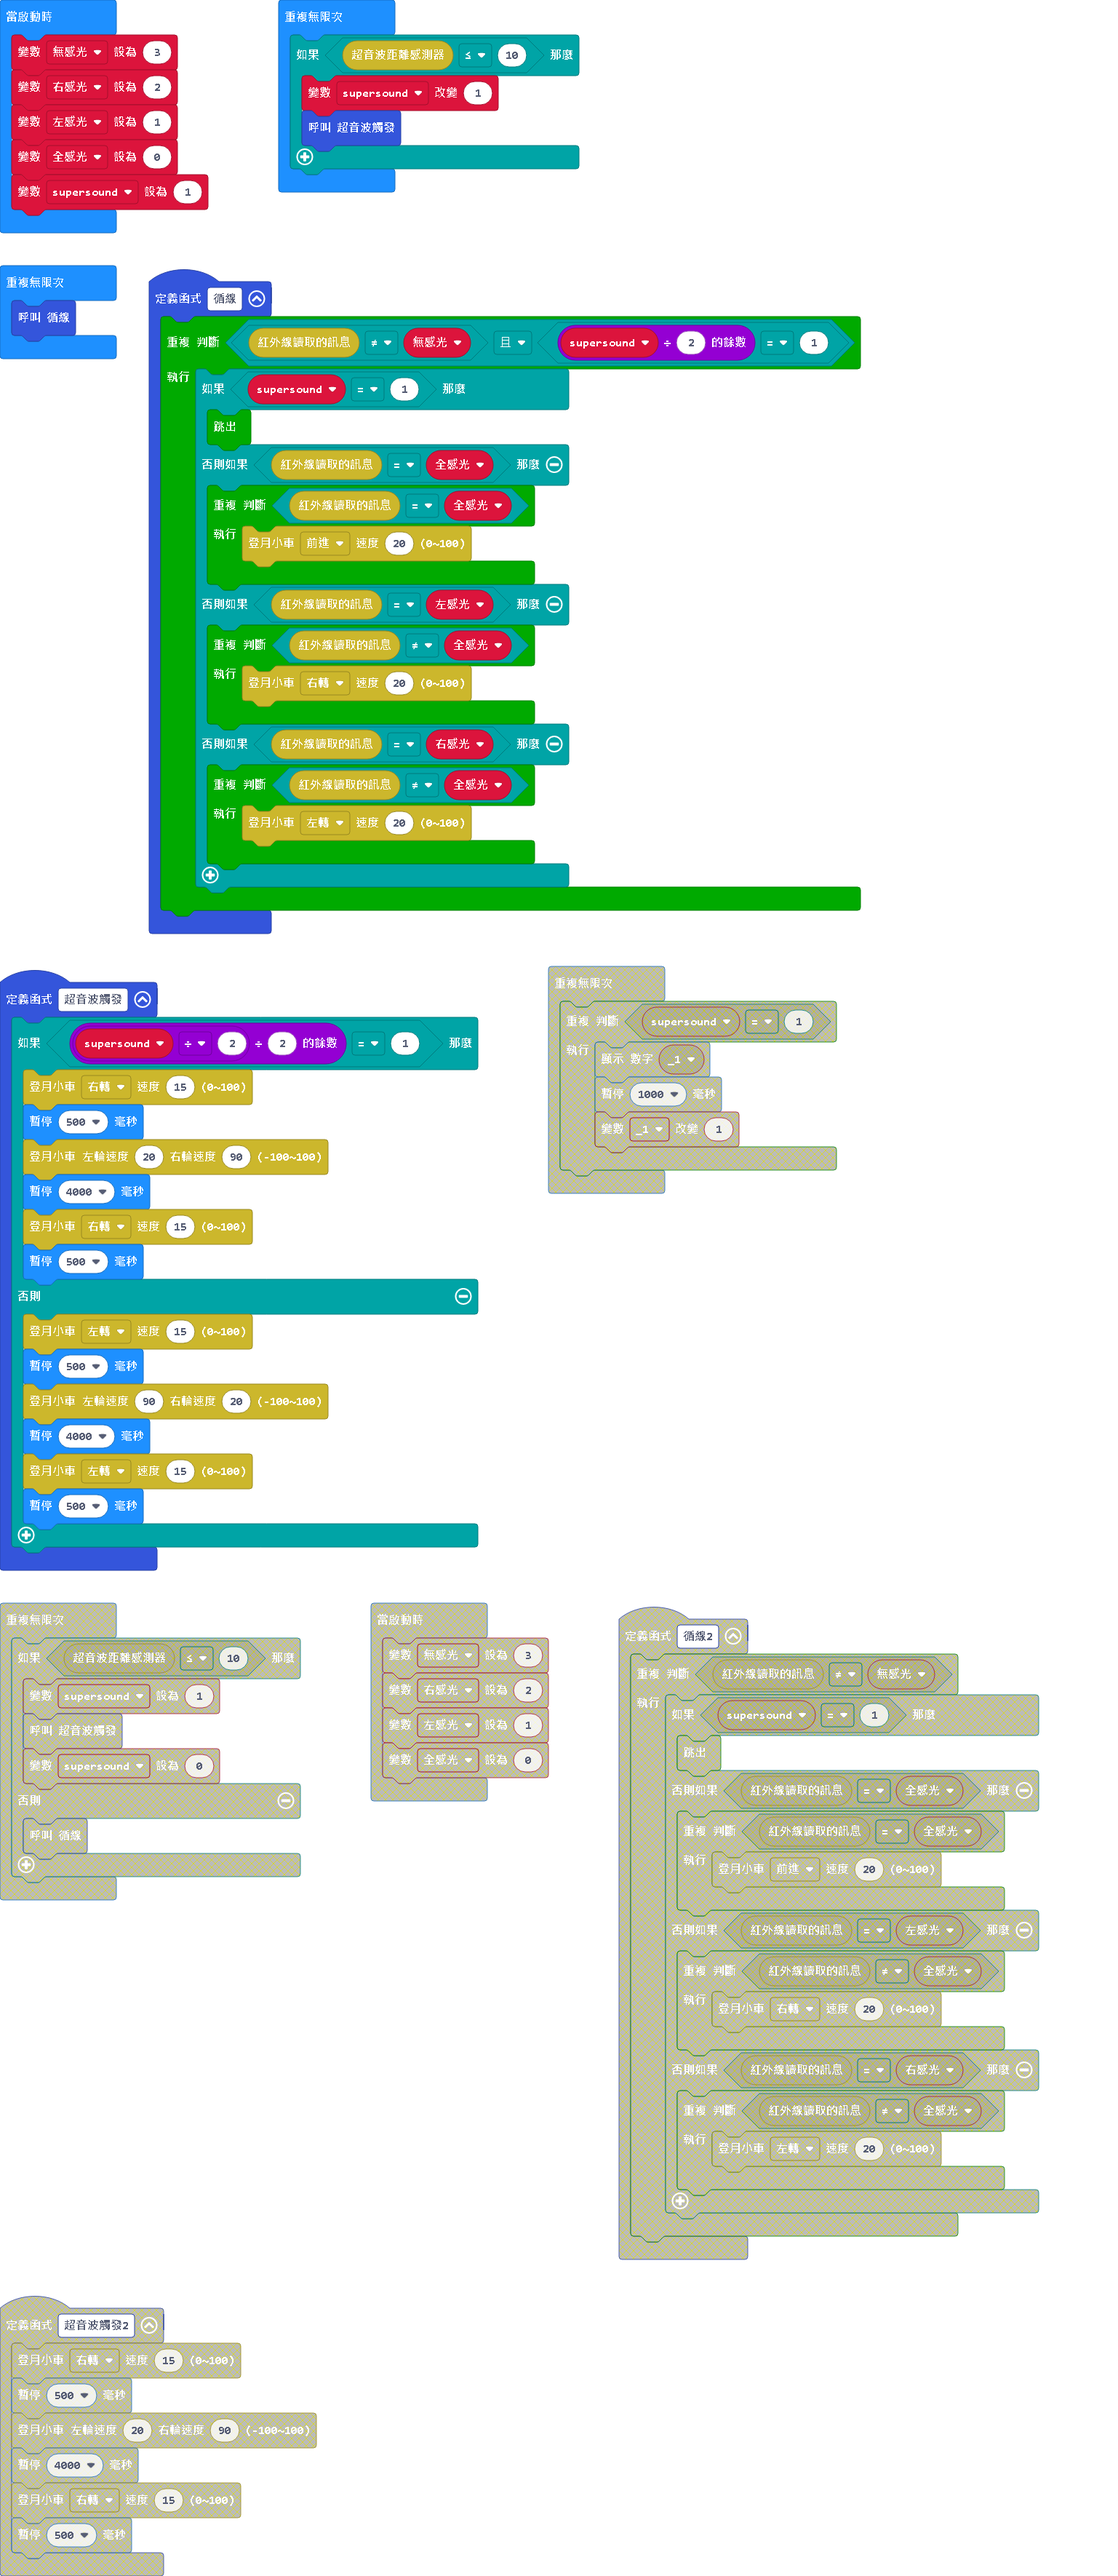
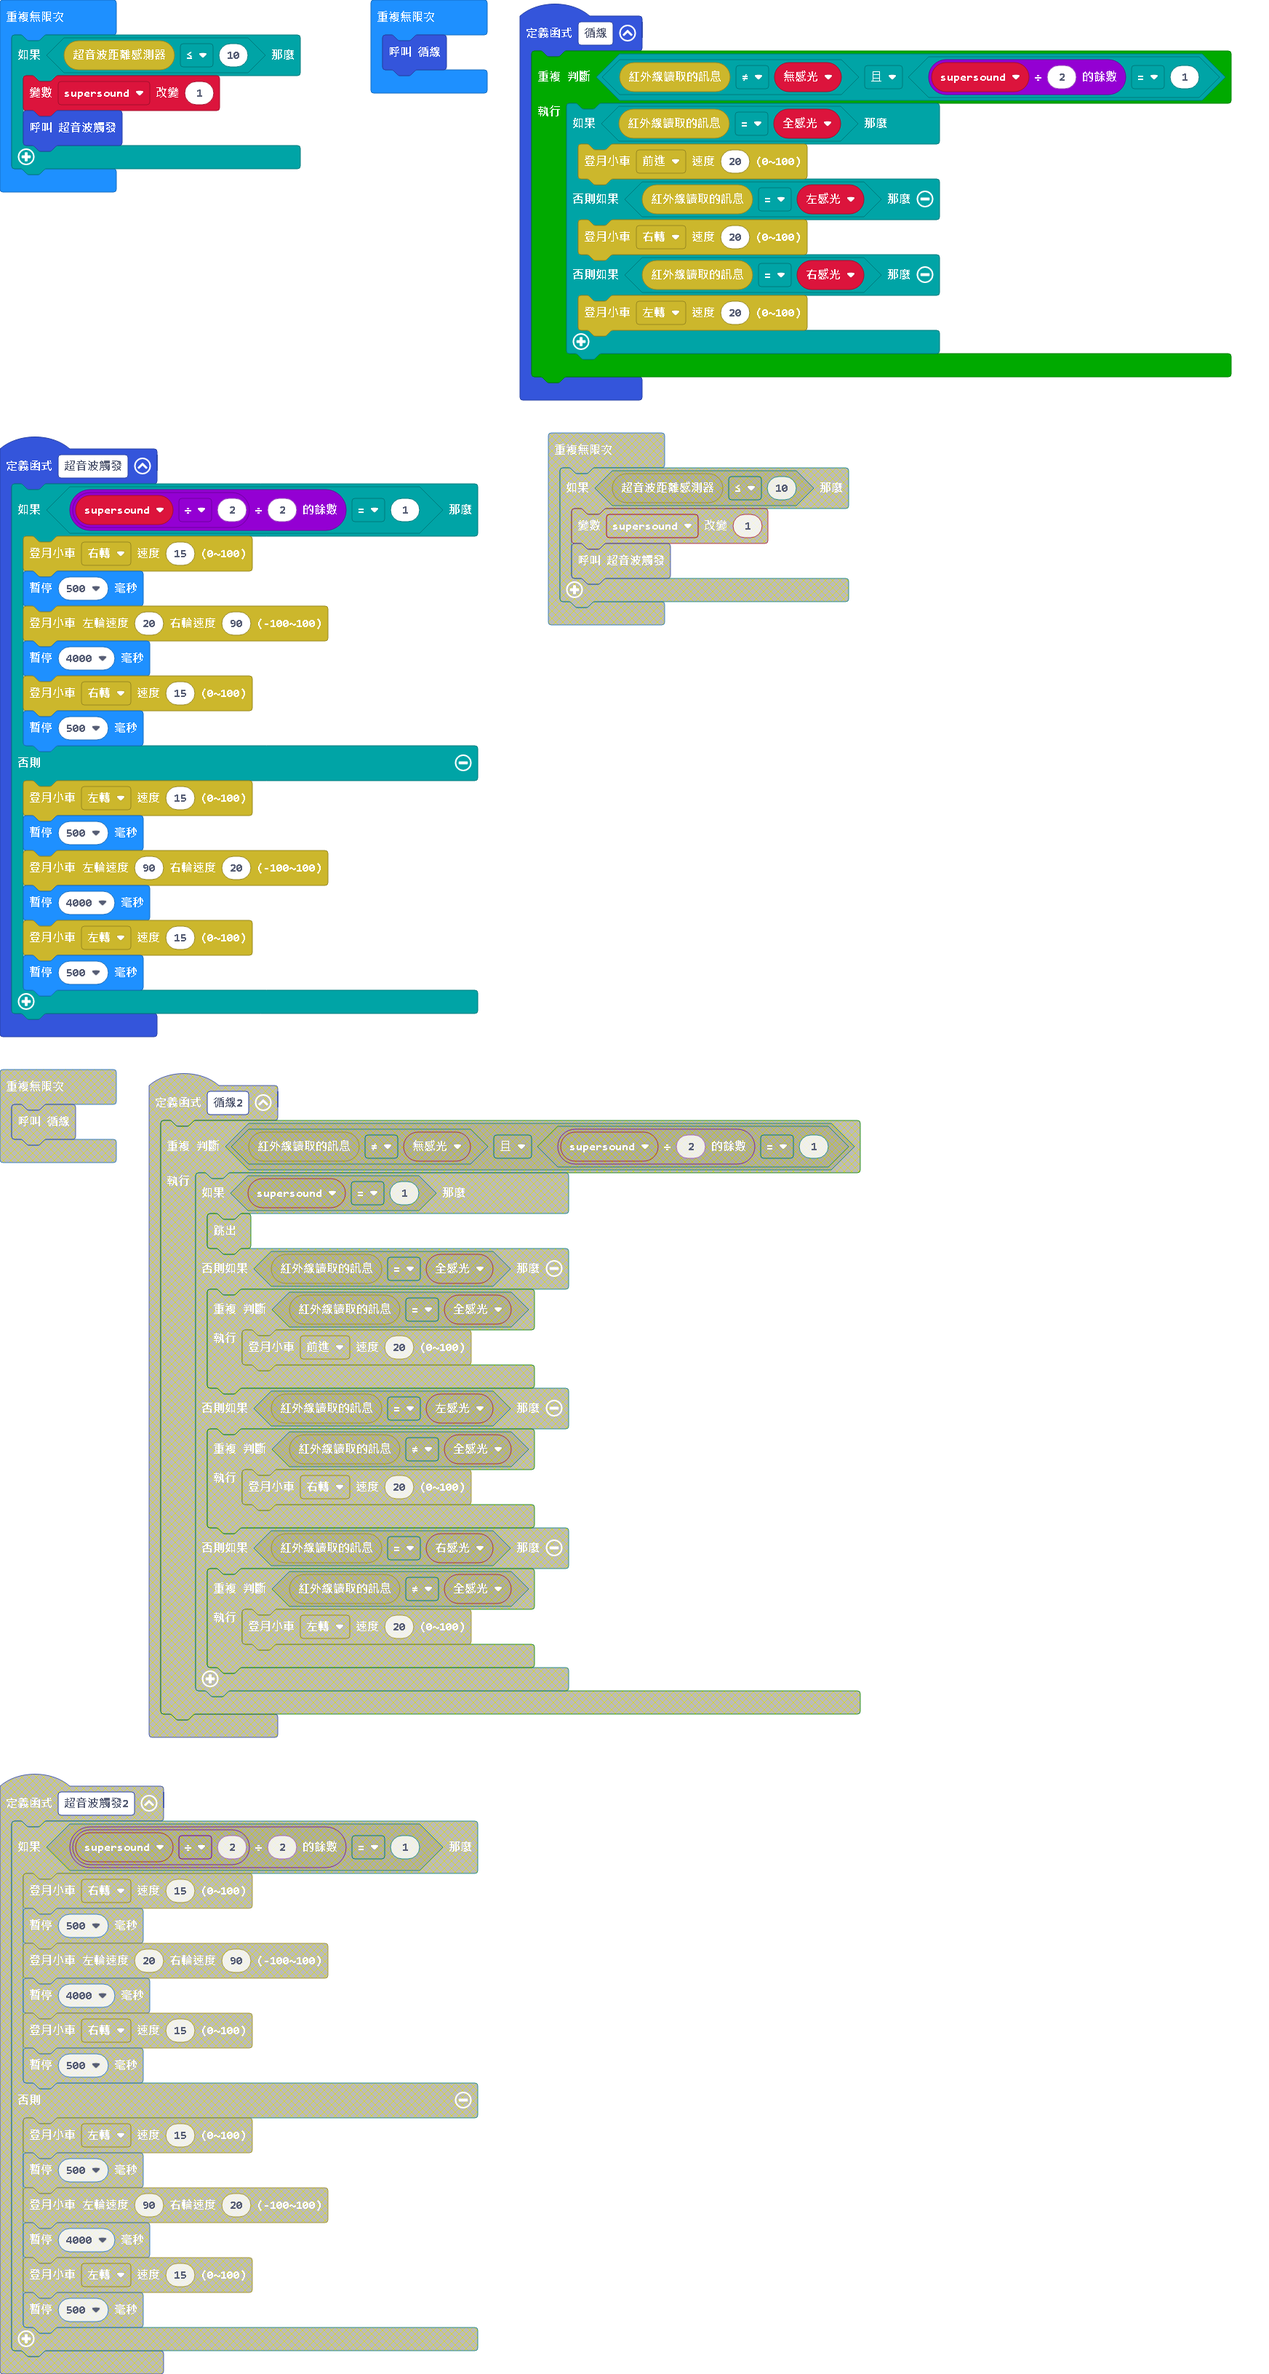
更新 main.blocks, main.ts, main.py

diff --git a/main.ts b/main.ts
@@ -1,19 +1,11 @@
 function 循線 () {
     while (mooncar.IRRead() != 無感光 && supersound % 2 == 1) {
-        if (supersound == 1) {
-            break;
-        } else if (mooncar.IRRead() == 全感光) {
-            while (mooncar.IRRead() == 全感光) {
-                mooncar.MoonCarGo(mooncar.Direction.direct1, 20)
-            }
+        if (mooncar.IRRead() == 全感光) {
+            mooncar.MoonCarGo(mooncar.Direction.direct1, 20)
         } else if (mooncar.IRRead() == 左感光) {
-            while (mooncar.IRRead() != 全感光) {
-                mooncar.MoonCarGo(mooncar.Direction.direct4, 20)
-            }
+            mooncar.MoonCarGo(mooncar.Direction.direct4, 20)
         } else if (mooncar.IRRead() == 右感光) {
-            while (mooncar.IRRead() != 全感光) {
-                mooncar.MoonCarGo(mooncar.Direction.direct3, 20)
-            }
+            mooncar.MoonCarGo(mooncar.Direction.direct3, 20)
         }
     }
 }

diff --git a/main.py b/main.py
@@ -1,16 +1,11 @@
 def 循線():
     while mooncar.ir_read() != 無感光 and supersound % 2 == 1:
-        if supersound == 1:
-            break
-        elif mooncar.ir_read() == 全感光:
-            while mooncar.ir_read() == 全感光:
-                mooncar.moon_car_go(mooncar.Direction.DIRECT1, 20)
+        if mooncar.ir_read() == 全感光:
+            mooncar.moon_car_go(mooncar.Direction.DIRECT1, 20)
         elif mooncar.ir_read() == 左感光:
-            while mooncar.ir_read() != 全感光:
-                mooncar.moon_car_go(mooncar.Direction.DIRECT4, 20)
+            mooncar.moon_car_go(mooncar.Direction.DIRECT4, 20)
         elif mooncar.ir_read() == 右感光:
-            while mooncar.ir_read() != 全感光:
-                mooncar.moon_car_go(mooncar.Direction.DIRECT3, 20)
+            mooncar.moon_car_go(mooncar.Direction.DIRECT3, 20)
 def 超音波觸發():
     if supersound / 2 % 2 == 1:
         mooncar.moon_car_go(mooncar.Direction.DIRECT4, 15)
@@ -35,7 +30,7 @@ supersound = 0
 右感光 = 2
 左感光 = 1
 全感光 = 0
-supersound = 0
+supersound = 1
 
 def on_forever():
     global supersound
